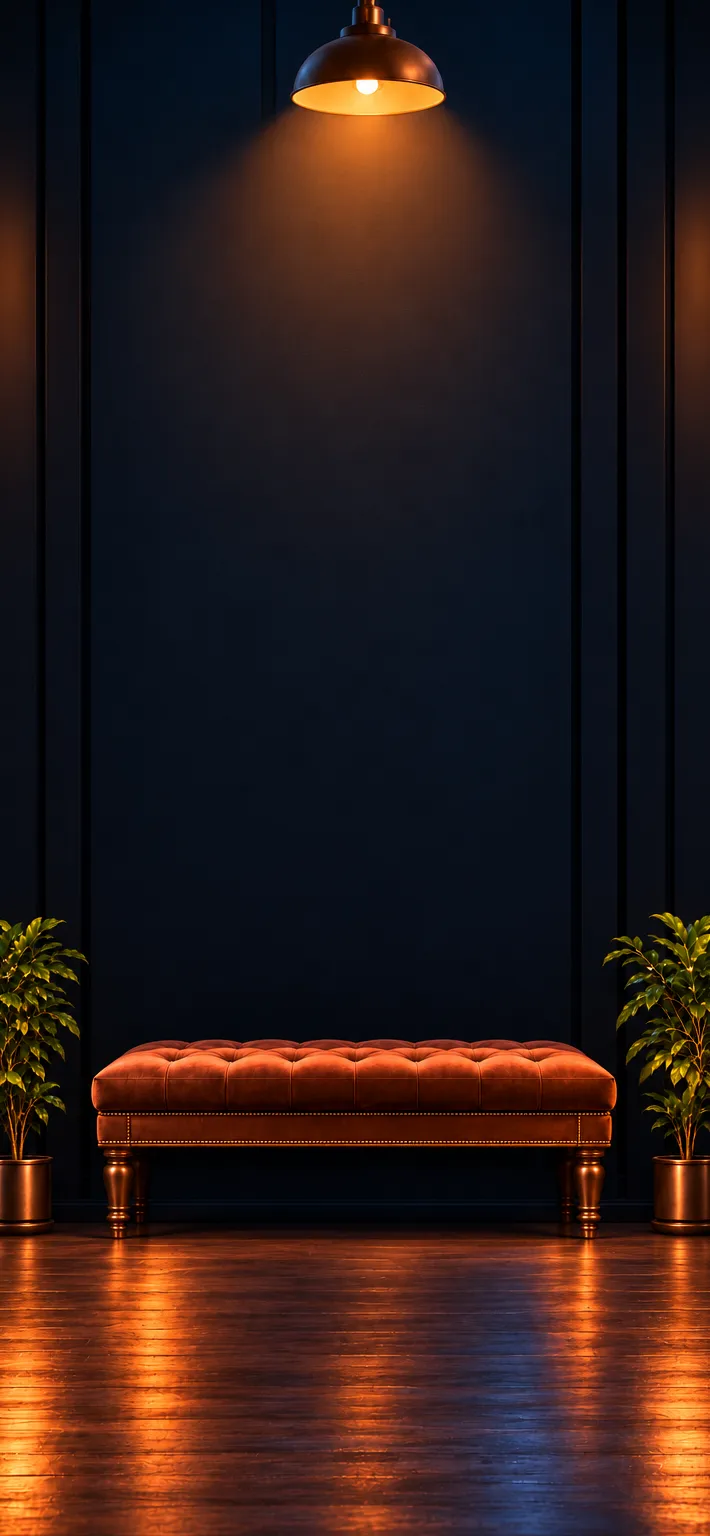
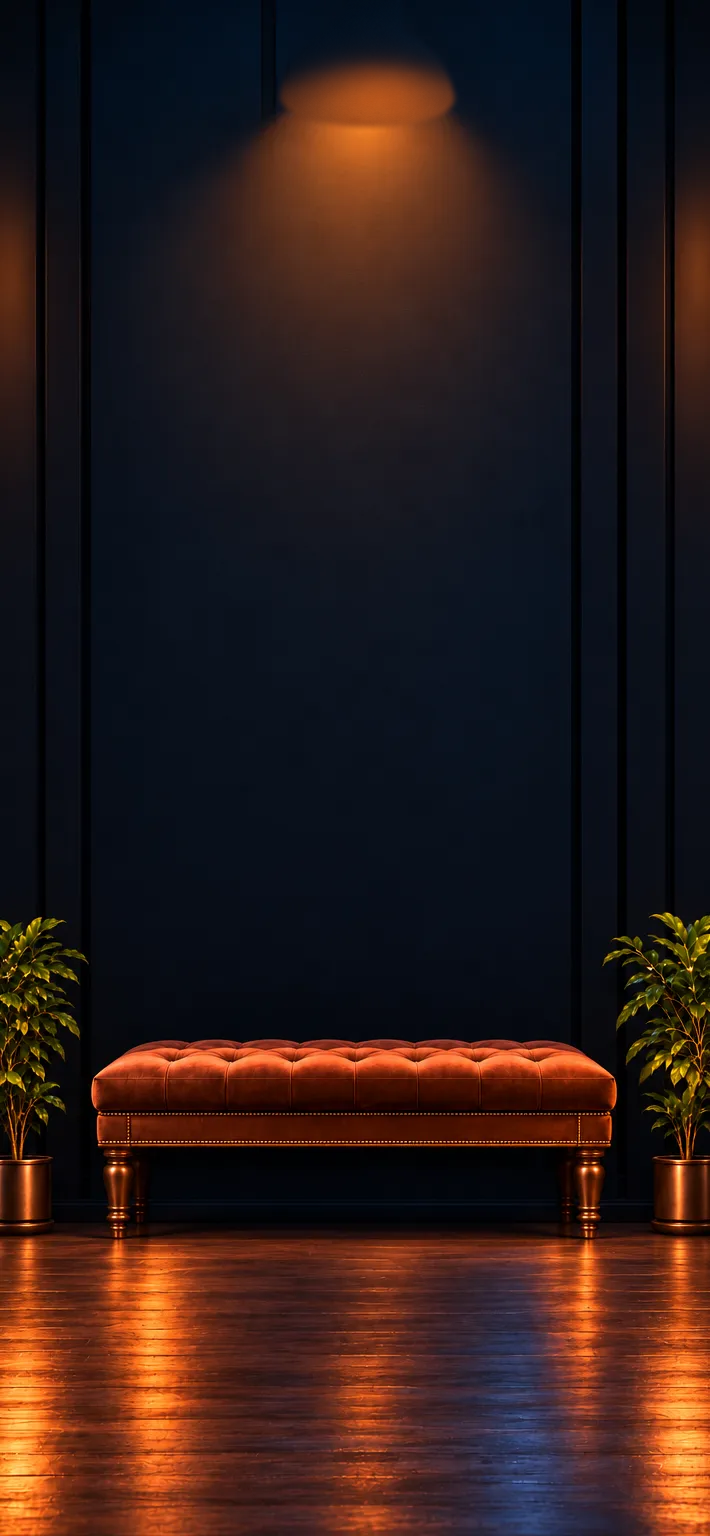
Remove directory pendant light and enlarge existing Galerie Trev plaque

Changed region(s): [[0.4028, 0.0, 0.6507, 0.0938]]

diff --git a/docs/artists/index.html b/docs/artists/index.html
@@ -1,7 +1,7 @@
 <!doctype html><html lang="en"><head><meta charset="utf-8"><meta name="viewport" content="width=device-width,initial-scale=1"><meta property="og:title" content="ATELIER — Discover Art &amp; Artists"><meta property="og:description" content="Discover original art through beautiful interactive galleries. Explore the artists, their stories and their work."><meta property="og:image" content="https://raggedya.github.io/splatters/atelier-social-preview.jpg"><meta property="og:image:width" content="1200"><meta property="og:image:height" content="630"><meta property="og:url" content="https://raggedya.github.io/splatters/artists/"><meta property="og:type" content="website"><meta name="twitter:card" content="summary_large_image"><meta name="twitter:title" content="ATELIER — Discover Art &amp; Artists"><meta name="twitter:description" content="Discover original art through beautiful interactive galleries. Explore the artists, their stories and their work."><meta name="twitter:image" content="https://raggedya.github.io/splatters/atelier-social-preview.jpg"><meta name="generator" content="ATELIER Artist Directory"><title>ATELIER</title><style>
 :root{color-scheme:dark;background:#080b11;color:#eed09a;font-family:Georgia,"Times New Roman",serif}
 *{box-sizing:border-box}body{margin:0;min-width:0}
-main{--room-height:max(100svh,min(216vw,1050px));position:relative;isolation:isolate;max-width:76rem;margin:auto;min-height:100vh;padding:clamp(43px,11vw,116px) clamp(13px,5.2vw,65px) clamp(75px,15vw,158px);background:linear-gradient(90deg,#07090d,#101620 22%,#0b1018 50%,#101620 78%,#07090d)}
+main{--room-height:max(100svh,min(216vw,1050px));position:relative;isolation:isolate;max-width:76rem;margin:auto;min-height:100vh;padding:clamp(10px,2vw,24px) clamp(13px,5.2vw,65px) clamp(75px,15vw,158px);background:linear-gradient(90deg,#07090d,#101620 22%,#0b1018 50%,#101620 78%,#07090d)}
 main::before,main::after{content:"";position:absolute;z-index:-1;inset-inline:0;pointer-events:none}
 main::before{top:0;height:calc(var(--room-height) * .58);background:url('atelier-room.webp') center top/auto var(--room-height) no-repeat;mask-image:linear-gradient(#000 62%,transparent)}
 main::after{bottom:0;height:calc(var(--room-height) * .46);background:url('atelier-room.webp') center bottom/auto var(--room-height) no-repeat;mask-image:linear-gradient(transparent,#000 22%)}
@@ -18,7 +18,7 @@ main:not(:has(#creators>li:nth-child(4)))::after{display:none}
  main:not(:has(#creators>li:nth-child(4)))::before{background-size:auto 100%;mask-image:linear-gradient(90deg,transparent,#000 10%,#000 90%,transparent)}
 }
 header{margin:0 auto clamp(8px,2.7vw,28px);max-width:47rem;text-align:center}
-.brand{position:relative;isolation:isolate;container-type:inline-size;aspect-ratio:3.45;width:72%;margin:auto;display:flex;align-items:center;justify-content:center;color:#f7dba0}
+.brand{position:relative;isolation:isolate;container-type:inline-size;aspect-ratio:1280/853;width:min(70vw,53.2rem);margin:0;left:50%;transform:translateX(-50%);display:flex;align-items:center;justify-content:center;color:#f7dba0}
 .brand svg{position:absolute;inset:0;width:100%;height:100%;z-index:-1;filter:drop-shadow(0 3px 3px #090503d9) drop-shadow(0 0 4px #cc813e66)}
 h1{margin:0;font-weight:500;font-size:clamp(1.5rem,10vw,5.35rem);font-size:clamp(1.5rem,15.35cqi,5.35rem);letter-spacing:.067em;line-height:1.12;filter:drop-shadow(0 1px #5c351b) drop-shadow(0 2px 1px #080403)}
 @supports(background-clip:text){h1{background:linear-gradient(#b77a43 9%,#ffedc3 31%,#efc287 55%,#ba793c 72%,#f6ce91 87%);background-clip:text;color:transparent}}
@@ -44,7 +44,7 @@ li{min-width:0}a{display:flex;flex-direction:column;height:100%;color:inherit;te
 .nameplate::before,.nameplate::after{content:"";position:absolute;top:50%;width:clamp(3px,.8vw,6px);aspect-ratio:1;border-radius:50%;background:radial-gradient(circle at 35% 29%,#fff3c8,#bb834e 44%,#4a2916 72%);box-shadow:0 1px 1px #070402;transform:translateY(-50%)}
 .nameplate::before{left:3%}.nameplate::after{right:3%}
 @media(min-width:960px){ul{grid-template-columns:repeat(4,minmax(0,1fr))}}
-@media(max-width:290px){ul{gap:10px 7px}.brand{width:79%}}
+@media(max-width:290px){ul{gap:10px 7px}.brand{width:70vw}}
 .brand .title-logo{position:absolute;inset:0;margin:0;width:100%;height:100%;background:none;filter:none;font-size:0;line-height:0}.brand .title-logo img{display:block;width:100%;height:100%;object-fit:contain}
 </style></head><body><main><header><div class="brand"><h1 class="title-logo"><img src="galerie-trev-logo.png" alt="Galerie Trev" width="1280" height="853"></h1></div><button class="gallery-shuffle" type="button" hidden aria-controls="creators"><span>SHUFFLE</span></button><p class="discovery-invitation">Go exploring…</p></header><ul id="creators"><li><a href="../access-arts/"><div class="artwork"><img src="../access-arts/gallery-thumbnail-8a2b881dcbba36f6740a9af9d261845b5d79baba5e6b252a8c85f70d92be52f8.webp" alt="" width="480" height="480" decoding="async"></div><span class="nameplate">Access Arts</span></a></li><li><a href="../achieve-australia-accessible-arts-artful/"><div class="artwork"><img src="../achieve-australia-accessible-arts-artful/gallery-thumbnail-c9b13380808ce28ecd78b7c978cb787355450f8da8e962e305ac342b73023ed0.webp" alt="" width="480" height="480" decoding="async"></div><span class="nameplate">Achieve Australia / Accessible Arts - Artful</span></a></li><li><a href="../alkira-artists/"><div class="artwork"><img src="../alkira-artists/gallery-thumbnail-10e135f9170019be89972bd5d4a8fb19bc964952623c4bdb1df2d2718fec66ff.webp" alt="" width="480" height="480" decoding="async"></div><span class="nameplate">ALKIRA ARTISTS</span></a></li><li><a href="../artgusto/"><div class="artwork"><img src="../artgusto/gallery-thumbnail-040fe038b6e7c2433f8cd936786867735aadb460cee5a8b873466037b6d55831.webp" alt="" width="480" height="480" loading="lazy" decoding="async"></div><span class="nameplate">ArtGusto</span></a></li><li><a href="../arts-access-victoria/"><div class="artwork"><img src="../arts-access-victoria/gallery-thumbnail-8ede68076b58b2b388e0b70b481a51712101db9365e90727b5c5592b8651b9d9.webp" alt="" width="480" height="480" loading="lazy" decoding="async"></div><span class="nameplate">Arts Access Victoria</span></a></li><li><a href="../arts-project-australia/"><div class="artwork"><img src="../arts-project-australia/gallery-thumbnail-ad8797eb5a3739d4662f544039316f0717ef0f2f4a5bae1dc5ada14deaaf7934.webp" alt="" width="480" height="480" loading="lazy" decoding="async"></div><span class="nameplate">Arts Project Australia</span></a></li><li><a href="../bindi-mwerre-anthurre-artists/"><div class="artwork"><img src="../bindi-mwerre-anthurre-artists/gallery-thumbnail-f2326e29cccc41822941249bb27431f95b0b682682ffa6424c2fcbe776e2ac13.webp" alt="" width="480" height="480" loading="lazy" decoding="async"></div><span class="nameplate">Bindi Mwerre Anthurre Artists</span></a></li><li><a href="../endeavour-foundation-qart/"><div class="artwork"><img src="../endeavour-foundation-qart/gallery-thumbnail-493a895f3fca6d0e1e65cbcf10422e00587bbc4a74e5674b5ba2b3aa258aae7b.webp" alt="" width="480" height="480" loading="lazy" decoding="async"></div><span class="nameplate">Endeavour Foundation - QArt</span></a></li><li><a href="../redinc/"><div class="artwork"><img src="../redinc/gallery-thumbnail-91bf1e018f59edb2575919e1dc6f7a1830d92c69bd2ff792be17c7b7c08eda25.webp" alt="" width="480" height="480" loading="lazy" decoding="async"></div><span class="nameplate">REDinc</span></a></li><li><a href="../studio-a/"><div class="artwork"><img src="../studio-a/gallery-thumbnail-12760c6847543ab7e343a632da30e046fef110342188c58972e8674874fbf007.webp" alt="" width="480" height="480" loading="lazy" decoding="async"></div><span class="nameplate">Studio A</span></a></li><li><a href="../studio-artes/"><div class="artwork"><img src="../studio-artes/gallery-thumbnail-9cefd5a50b483325cf8cbcb99f8256f07b5cf21c0483b1207854d09447b631a8.webp" alt="" width="480" height="480" loading="lazy" decoding="async"></div><span class="nameplate">Studio ARTES</span></a></li><li><a href="../tutti-arts/"><div class="artwork"><img src="../tutti-arts/gallery-thumbnail-137724ea586cc0951ed06b12ce8368782beb739fc4e9bec683f75487a2b5e2e4.webp" alt="" width="480" height="480" loading="lazy" decoding="async"></div><span class="nameplate">Tutti Arts</span></a></li></ul></main><script>(() => {
  const grid=document.getElementById('creators');
